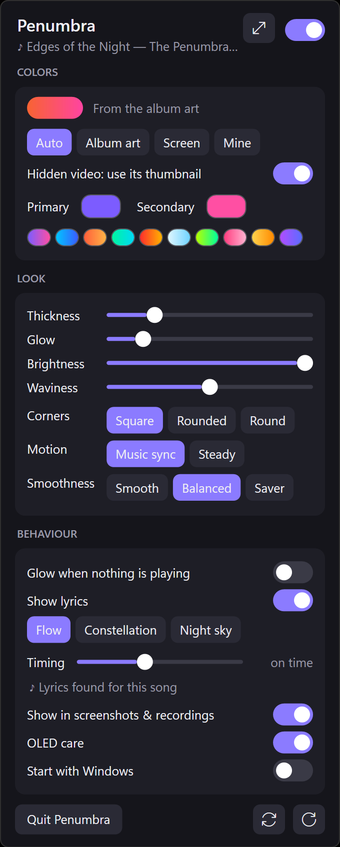
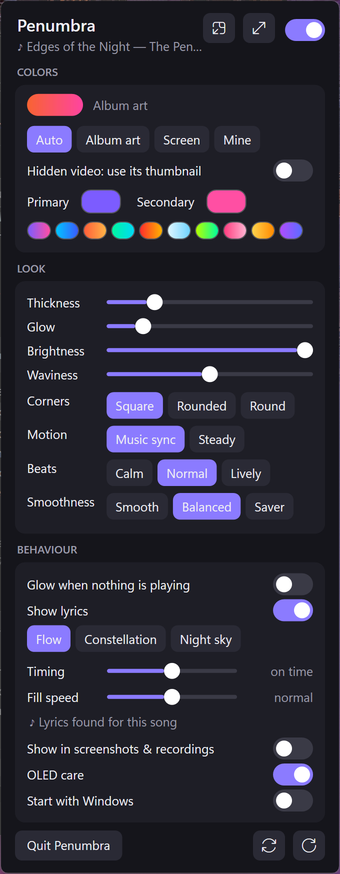
1.0.1: updated guide and panel screenshot

diff --git a/USER-GUIDE.md b/USER-GUIDE.md
@@ -6,7 +6,7 @@ Penumbra puts a thin line of light around the edges of your screen that **moves 
 
 ## 1. Install
 
-1. Download **Penumbra-Setup-1.0.0.exe** from the **[download page](https://github.com/SadMan-ZaMaN/Penumbra-download/releases/latest)** (under **Assets**).
+1. Download the newest **Penumbra-Setup** file from the **[download page](https://github.com/SadMan-ZaMaN/Penumbra-download/releases/latest)** (under **Assets**).
 2. Run it. If Windows says **"Windows protected your PC"**, click **More info → Run anyway**. (The app isn't signed; that's all this means.)
 3. Click through the installer. Penumbra starts and opens its settings panel.
 
@@ -66,6 +66,7 @@ A full-screen player: the song's cover on the left, the lyrics scrolling on the 
 
 - **Show or hide it:** **Ctrl + Alt + M**, the small-window button at the top of the settings panel (next to **⤢**; outlined while it's on), **Mini player** in the tray menu, or its **✕**.
 - **Its other buttons:** **⚙** opens the settings panel (click again to close), **⤢** opens the Now playing view.
+- **Jump within the song:** click or drag the thin line along the bottom of the bar (pointing at it shows the time). Songs without lyrics get a progress bar in place of the lyric line, which works the same way.
 - **Move it:** drag it by any empty spot. **Double-click** it to send it back to the bottom middle. When you close it, it opens at the bottom middle again next time.
 - **Tuck it away:** **›** slides it into the side of the screen, leaving a small tab with the cover. Click the tab to bring it back; drag the tab to move it.
 - Clicking it doesn't take the keyboard away from what you're typing in.
@@ -74,6 +75,8 @@ A full-screen player: the song's cover on the left, the lyrics scrolling on the 
 ---
 
 ## 6. The settings panel
+
+**Every time you open Penumbra, it starts with the default settings** (light on, mini player off). Only the **⟳** restart keeps what you've set.
 
 | Setting | What it does |
 |---|---|
@@ -118,5 +121,5 @@ A full-screen player: the song's cover on the left, the lyrics scrolling on the 
 
 ## 9. Update or remove
 
-- **Update:** download the newer Setup from the [download page](https://github.com/SadMan-ZaMaN/Penumbra-download/releases/latest) and run it. It installs over the old one and keeps your settings.
+- **Update:** download the newer Setup from the [download page](https://github.com/SadMan-ZaMaN/Penumbra-download/releases/latest) and run it. It installs over the old one.
 - **Remove:** Windows **Settings → Apps → Penumbra → Uninstall**.

diff --git a/README.md b/README.md
@@ -21,7 +21,7 @@ It moves with your music, takes its colors from what you're playing, and can sho
 
 **You need:** 64-bit Windows 10 (version 2004 or newer) or Windows 11, and a graphics card with DirectX 11 (any from the last decade). Nothing else to install: everything Penumbra needs is inside the installer. It installs for your user only, without asking for admin rights.
 
-**Update:** download the newer Setup from the same page and run it. It installs over the old one and keeps your settings.
+**Update:** download the newer Setup from the same page and run it. It installs over the old one.
 **Uninstall:** Windows **Settings → Apps → Penumbra → Uninstall**.
 
 New to it? The short **[user guide](USER-GUIDE.md)** covers everything: shortcuts, lyrics, the players and what to do if something's not right.
